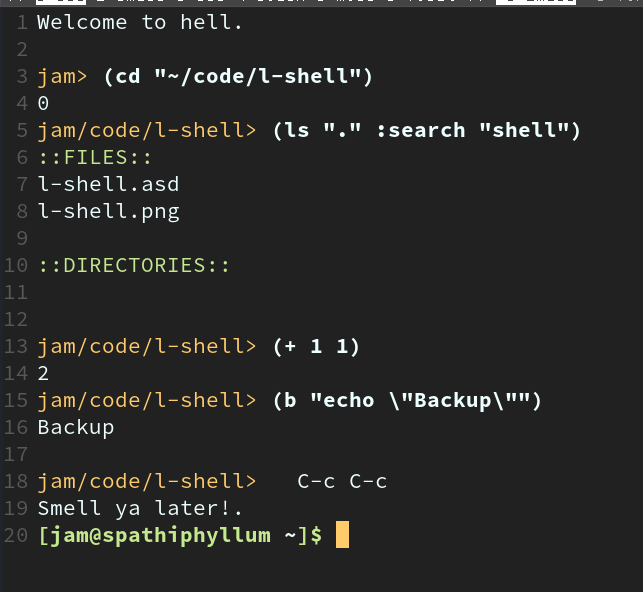
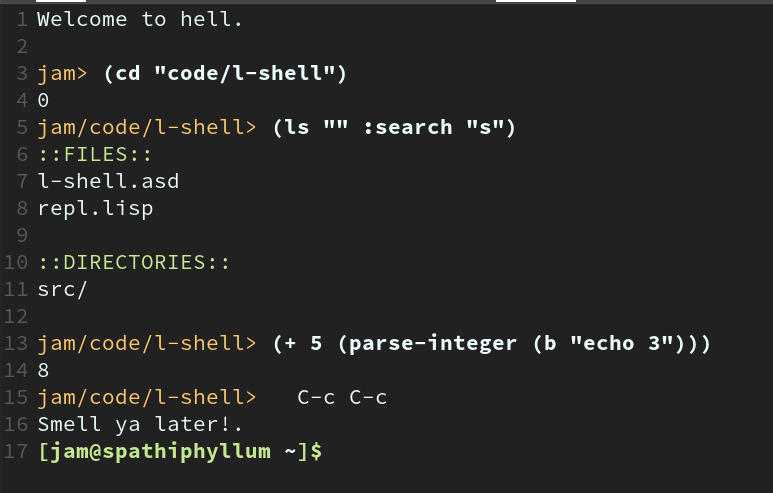
final for the night

Changed region(s): [[0.0, 0.0913, 0.9331, 0.9432], [0.0, 0.0, 1.0, 0.0609], [0.5288, 0.5781, 0.5599, 0.6085]]

diff --git a/README.md b/README.md
@@ -13,6 +13,7 @@ Either run the script with it installed via quicklisp (recommended), or in-packa
 - touch
 - mkdir
 - Direct bash commands output to string for useage
+- All kinds of paths including relative and absolute
 
 Tabs work by default if you use something like inferior-shell on emacs (not tested with others)
 
@@ -21,3 +22,4 @@ Tabs work by default if you use something like inferior-shell on emacs (not test
 - File Writing
 - Regex searches
 - Could we possibly get integration with emacs
+- Keypresses
